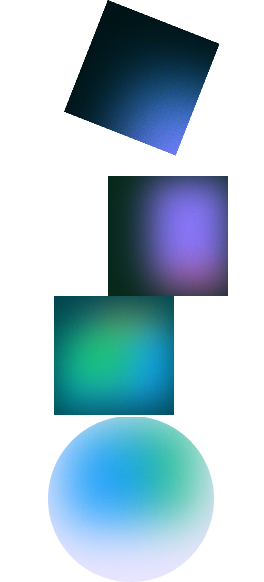
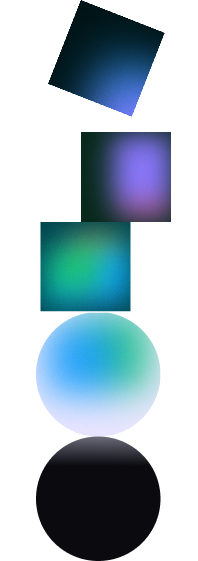
Illustration update.

diff --git a/artifacts/portfolio/src/pages/home.tsx b/artifacts/portfolio/src/pages/home.tsx
@@ -301,7 +301,7 @@ const companies: Company[] = [
         desc: "Leading UX and design integration for a greenfield enterprise application built using Spec-Driven Development (SDD) with Claude Code as the AI development engine.",
         bullets: [
           "Integrated design workflows into the AI development pipeline using Figma MCP, enabling seamless design-to-code handoff within the SDD model.",
-          "Made 27+ commits to the repository; built custom web components with WCAG compliance and design system adherence natively enforced through AI.",
+          "Made 60+ commits to the repository; built custom web components with WCAG compliance and design system adherence natively enforced through AI.",
           "Designed and created 15+ custom icons to ensure visual consistency and scalability across the design system.",
         ],
         stat: "WCAG compliance and UI consistency enforced natively across all screens",